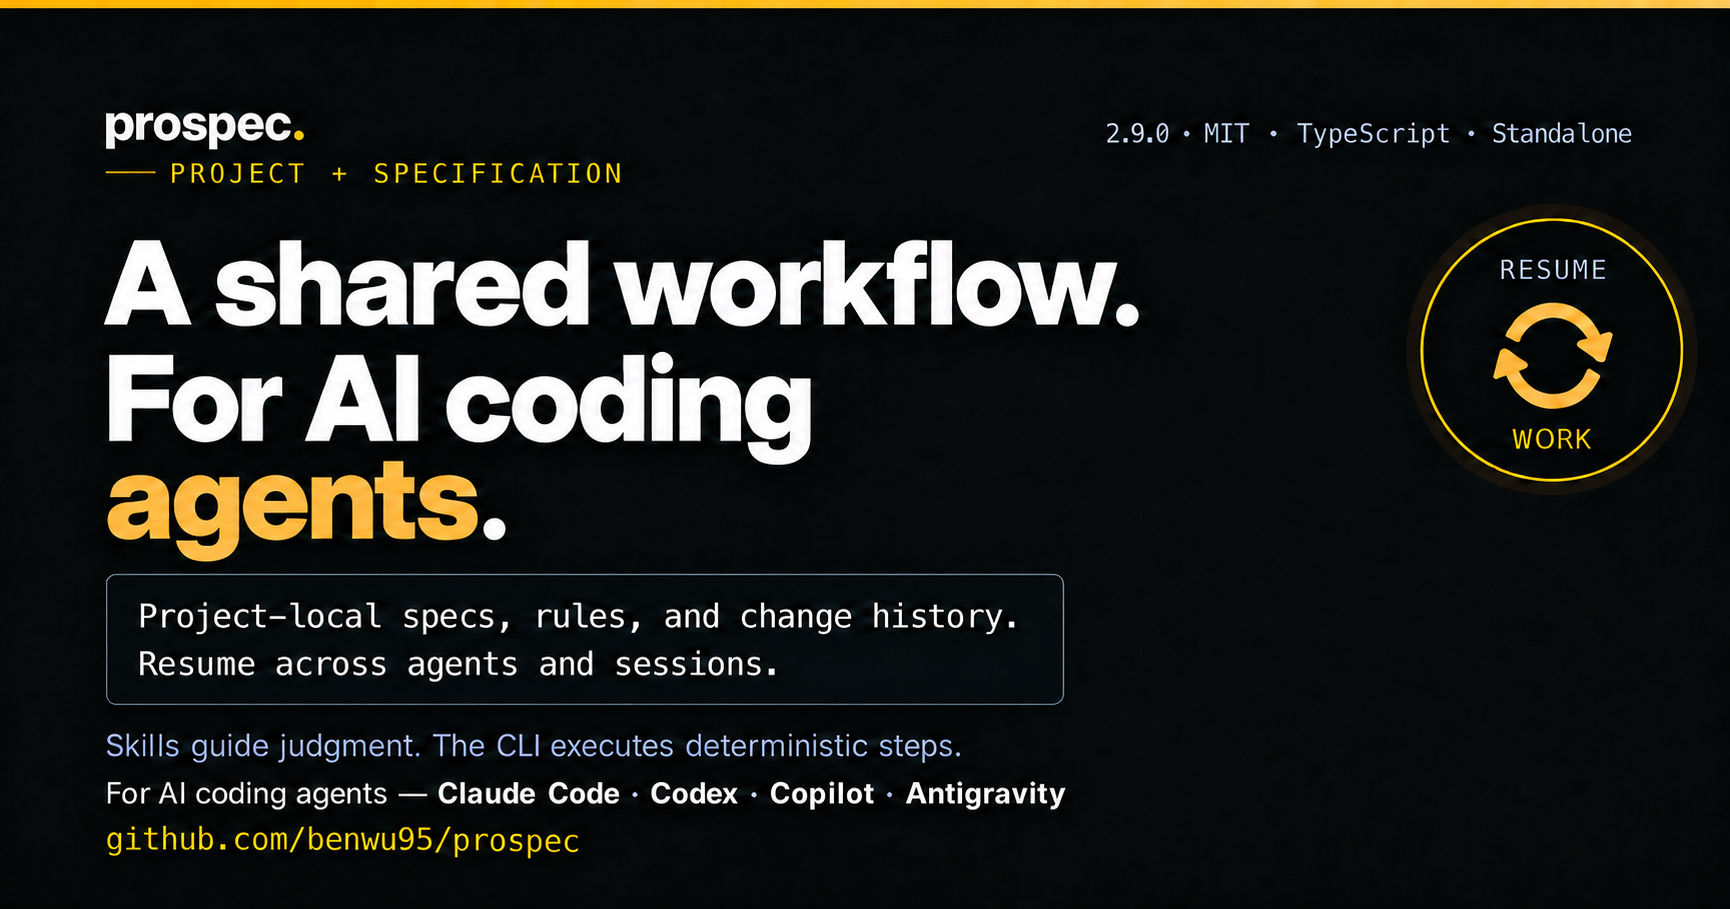
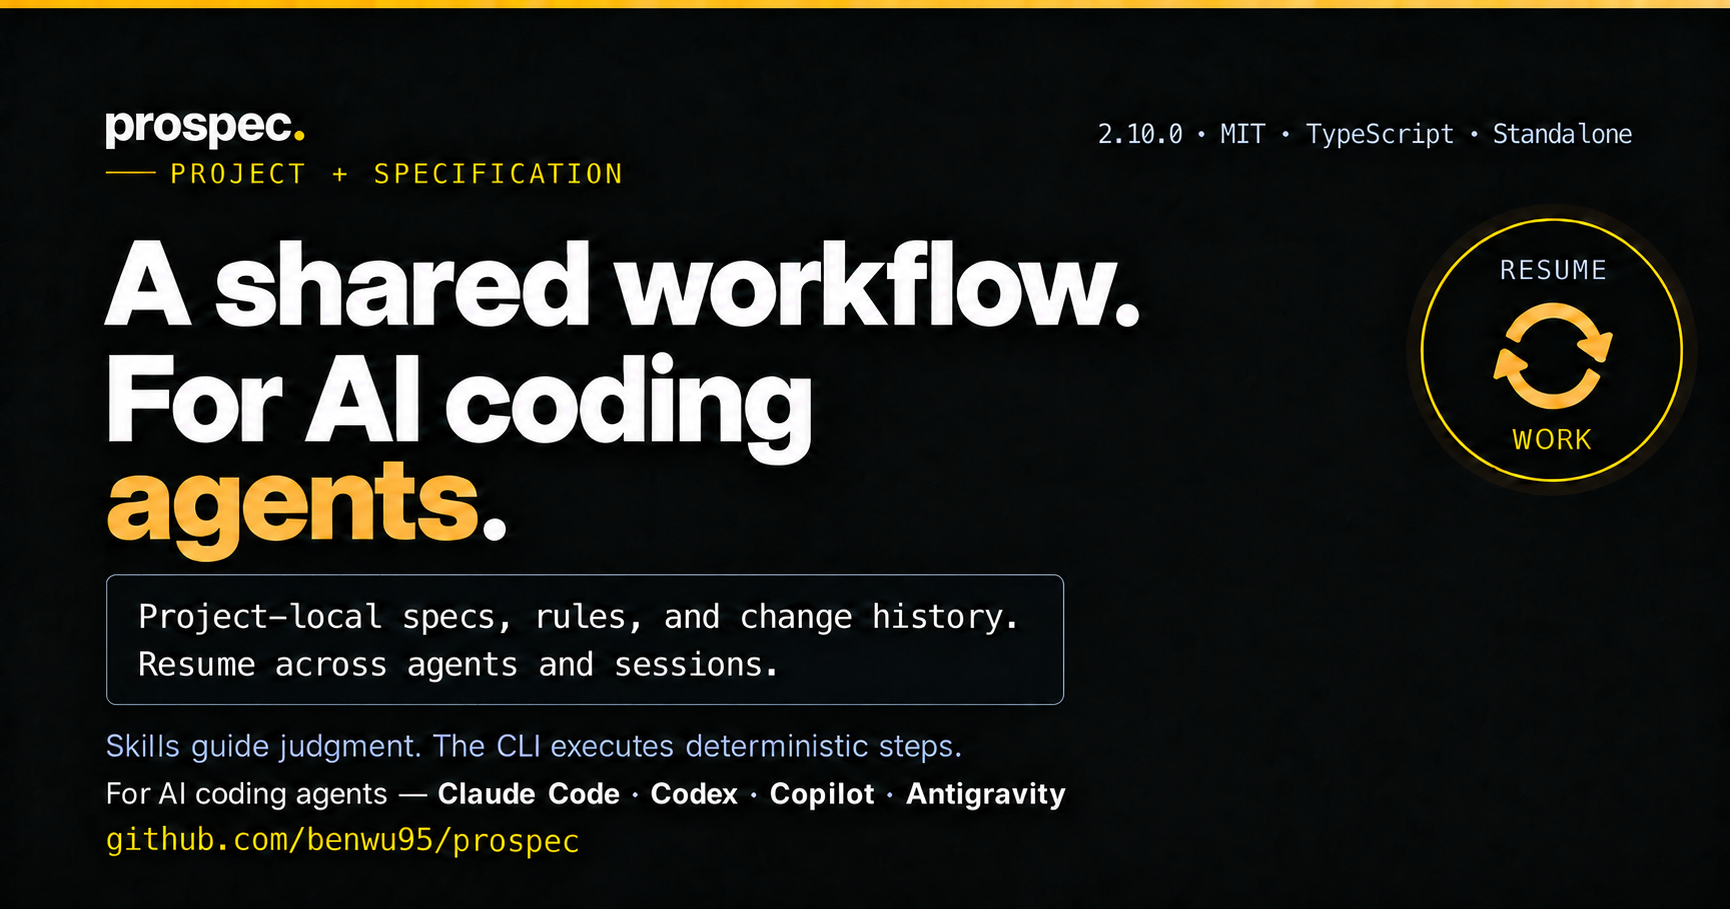
chore: bump version to 2.10.0

diff --git a/docs/index.html b/docs/index.html
@@ -14,12 +14,12 @@
 <meta property="og:image" content="https://benwu95.github.io/prospec/og.png">
 <meta property="og:image:width" content="1730">
 <meta property="og:image:height" content="909">
-<meta property="og:image:alt" content="Prospec 2.9.0 — a shared, resumable workflow for AI coding agents. Project-local specs, rules, and change history. Skills guide judgment; the CLI executes deterministic steps.">
+<meta property="og:image:alt" content="Prospec 2.10.0 — a shared, resumable workflow for AI coding agents. Project-local specs, rules, and change history. Skills guide judgment; the CLI executes deterministic steps.">
 <meta name="twitter:card" content="summary_large_image">
 <meta name="twitter:title" content="Prospec — a shared workflow for AI coding agents">
 <meta name="twitter:description" content="Project-local specs, rules, and change history keep work resumable across agents and sessions. Skills guide judgment; the CLI executes deterministic steps.">
 <meta name="twitter:image" content="https://benwu95.github.io/prospec/og.png">
-<meta name="twitter:image:alt" content="Prospec 2.9.0 — a shared, resumable workflow for AI coding agents. Project-local specs, rules, and change history. Skills guide judgment; the CLI executes deterministic steps.">
+<meta name="twitter:image:alt" content="Prospec 2.10.0 — a shared, resumable workflow for AI coding agents. Project-local specs, rules, and change history. Skills guide judgment; the CLI executes deterministic steps.">
 <script>
   (function(){
     var h = document.documentElement;
@@ -46,8 +46,8 @@
   "applicationCategory":"DeveloperApplication",
   "operatingSystem":"macOS, Linux, Windows",
   "softwareRequirements":"Standalone binaries require no Node.js. Node.js >= 22.13 is required only for npx, devDependency, or source-development paths.",
-  "softwareVersion":"2.9.0",
-  "dateModified":"2026-10-24",
+  "softwareVersion":"2.10.0",
+  "dateModified":"2026-10-27",
   "license":"https://opensource.org/licenses/MIT",
   "url":"https://benwu95.github.io/prospec/",
   "codeRepository":"https://github.com/benwu95/prospec",
@@ -104,7 +104,7 @@
 <!-- ===================== NAV ===================== -->
 <header class="nav">
   <div class="wrap nav__in">
-    <a class="brand" href="#top" aria-label="Prospec home" data-i18n-aria-label="nav.aria.brandHome">prospec<span class="dot" aria-hidden="true">.</span><span class="ver">2.9.0</span></a>
+    <a class="brand" href="#top" aria-label="Prospec home" data-i18n-aria-label="nav.aria.brandHome">prospec<span class="dot" aria-hidden="true">.</span><span class="ver">2.10.0</span></a>
     <nav class="nav__links" aria-label="Primary" data-i18n-aria-label="nav.aria.primary">
       <a href="#v2" data-i18n="nav.v2">Workflow</a>
       <a href="#how" data-i18n="nav.how">How it works</a>

diff --git a/tests/contract/skill-format.test.ts b/tests/contract/skill-format.test.ts
@@ -2728,8 +2728,8 @@ describe('Skill Format Contract', () => {
       const workflow = htmlSectionById(website, 'v2');
       expect(workflow).toContain('prospec status');
       expect(workflow).toContain('docs/guides/upgrading.md');
-      expect(website).toContain('<span class="ver">2.9.0</span>');
-      expect(website).toContain('"softwareVersion":"2.9.0"');
+      expect(website).toContain('<span class="ver">2.10.0</span>');
+      expect(website).toContain('"softwareVersion":"2.10.0"');
       for (const page of [website, zhOverlay]) {
         expect(page).not.toContain('1.3 → 2.0');
         expect(page).not.toContain("What's new in 2.0");
@@ -2742,7 +2742,7 @@ describe('Skill Format Contract', () => {
       const twitterAlt = website.match(/<meta name="twitter:image:alt" content="([^"]+)">/)?.[1];
       expect(ogAlt).toBeDefined();
       expect(twitterAlt).toBe(ogAlt);
-      expect(ogAlt).toContain('2.9.0');
+      expect(ogAlt).toContain('2.10.0');
       expect(ogAlt).toContain('shared');
       expect(ogAlt).not.toContain('audits itself');
     });

diff --git a/tests/unit/types/version.test.ts b/tests/unit/types/version.test.ts
@@ -30,10 +30,10 @@ describe('PROSPEC_VERSION', () => {
 });
 
 describe('MINIMUM_CLI_VERSION', () => {
-  it('requires the CLI version that ships configurable test timeouts and symlink evidence', async () => {
+  it('requires the CLI version that ships source-digest freshness and Knowledge sync before review', async () => {
     vi.resetModules();
     const { MINIMUM_CLI_VERSION } = await import('../../../src/types/version.js');
-    expect(MINIMUM_CLI_VERSION).toBe('2.9.0');
+    expect(MINIMUM_CLI_VERSION).toBe('2.10.0');
   });
 
   it('is a plain three-part semver literal (the probe floor skills render)', async () => {

diff --git a/src/types/version.ts b/src/types/version.ts
@@ -23,8 +23,8 @@ export const PROSPEC_VERSION: string = process.env.PROSPEC_VERSION || pkgVersion
 /**
  * The oldest CLI supporting the deployed skills' command and evidence contracts.
  * Injected into every startup probe as `{{minimum_cli_version}}`.
- * Configurable test timeouts and in-repo directory-symlink evidence need 2.9.0.
+ * Source-digest freshness and Knowledge sync before review need 2.10.0.
  * Raise this floor when shipped skills require a newer contract,
  * independently of package releases.
  */
-export const MINIMUM_CLI_VERSION = '2.9.0';
+export const MINIMUM_CLI_VERSION = '2.10.0';

diff --git a/prospec/ai-knowledge/modules/types/README.md b/prospec/ai-knowledge/modules/types/README.md
@@ -26,7 +26,7 @@
 | `cli-help.ts` | `HELP_ENRICHED_COMMANDS` + `COMMAND_HELP_SPECS` (when-to-use / example (plus optional `additionalExamples`) / returns per agent-called command, including warning-only refusal results; a `Record`, so a missing spec is a type error), `renderCommandHelp`, `EscapingDisclosure` (`markdown-table` vs `yaml-scalar`) and `ESCAPING_RULE_TEXT` — the one sentence both the help and the success notice print |
 | `station.ts` | Station I/O schemas — `ReviewFindingSchema` (+ its `repro`/`evidence` half), `JudgmentDimensionInputSchema` (each entry declares `graded_by`, an optional `executor` self-report, plus `items[]`, `scenario_findings[]`, and `context_id` for delta-spec compliance; `baseline_revision` is a quality-log projection, not judgment input), the planning-verifier contract (`PLANNING_VERDICTS`, `PLAN_VERIFIER_DIMENSIONS` / `TASKS_VERIFIER_DIMENSIONS`, strict `PlanVerifierReportSchema` / `TasksVerifierReportSchema`, `VERIFIER_REPORT_SCHEMAS` keyed by station skill, `planningVerdictToGateResult` FLAWS→FAIL), the plan candidate contracts (closed `CandidatePayloadSchema` / `DecisionPayloadSchema`, whose `graded_by` is `DECISION_GRADED_BY` — `human` | `in-session`, not the judgment-dimension vocabulary), `LessonInputSchema`, review status groups (`REVIEW_*_STATUSES`, `normalizeReviewStatus`/`hasReviewStatus`), the fresh-test gate contracts (`TestEvidenceFacts` / `TestEvidenceDecision` / `CurrentTestEvidenceAssessment` / `TestGateOutcome`, `TEST_GATE_PRODUCER` = `prospec-test-gate`, `TEST_GATE_NOT_ADJUDICATED`, `testGateRemediation`), and the `prospec learn yield` contracts (`LensYieldThresholdsSchema` defaults 5/3/0.1, `LensYieldStatSchema`, `LensYieldReportSchema`, `LENS_RETIREMENT_ACTIONS`); `RELAYED_FIELD_MAX_CHARS` and the dimension/kind registries are in the sub-module |
 
-Also: `auto-draft.ts` (drift-drafting options/result, incl. the `created | skipped | failed` per-group outcome), `conventions.ts`, `feature-map.ts`, `mcp.ts`, `measurement.ts`, `module-readme-format.ts`, `spec.ts`, `status.ts` (`ChangeRoute` with its stable `code`, its canonical `nextSkill` identity beside the optional fallback `nextSkillPath`, `WORKFLOW_REASON_CODES` / `WorkflowReason` / `formatWorkflowReason` shared by the router and the archive gate, `HUMAN_HALT_CODES` / `isHumanHaltCode` — the only codes a non-archived `next: null` route carries — and `PLAN_SIGNOFF_REMEDIES`, the one remedy text the router and `--signoff` share, the `pauseAtPlan` / `planSignedOff` route facts, `StatusReport`, and `DriftSignal` — the two-state drift verdict `prospec status` reports), `version.ts` (`PROSPEC_VERSION` + `MINIMUM_CLI_VERSION`; deployed Skills require CLI 2.9.0 for configurable test timeouts and directory-symlink evidence).
+Also: `auto-draft.ts` (drift-drafting options/result, incl. the `created | skipped | failed` per-group outcome), `conventions.ts`, `feature-map.ts`, `mcp.ts`, `measurement.ts`, `module-readme-format.ts`, `spec.ts`, `status.ts` (`ChangeRoute` with its stable `code`, its canonical `nextSkill` identity beside the optional fallback `nextSkillPath`, `WORKFLOW_REASON_CODES` / `WorkflowReason` / `formatWorkflowReason` shared by the router and the archive gate, `HUMAN_HALT_CODES` / `isHumanHaltCode` — the only codes a non-archived `next: null` route carries — and `PLAN_SIGNOFF_REMEDIES`, the one remedy text the router and `--signoff` share, the `pauseAtPlan` / `planSignedOff` route facts, `StatusReport`, and `DriftSignal` — the two-state drift verdict `prospec status` reports), `version.ts` (`PROSPEC_VERSION` + `MINIMUM_CLI_VERSION`; deployed Skills require CLI 2.10.0 for source-digest freshness and Knowledge sync before review).
 
 ## Public API
 
@@ -79,7 +79,7 @@ Also: `auto-draft.ts` (drift-drafting options/result, incl. the `created | skipp
 - `.optional()` → `T | undefined`, `.default()` → `T`; a new required field breaks existing `.prospec.yaml`. A budget threshold needs BOTH `TokenBudgetSchema` and `DEFAULT_KNOWLEDGE_TOKEN_BUDGET` (less `SHIPPED_BUDGET_FIELDS`, which ship with the version) — the resolver reads the default's keys, so a schema-only field parses then is ignored (a key-set test pins it).
 - `ChangeMetadataSchema` is loose at every level (reads never strip unmodeled keys), but `z.infer` of it gains an index signature that kills tsc's excess-property check — build against strict `NewChangeMetadata`, `satisfies` each spread body.
 - `ReviewFindingSchema.id` is optional but never decorative: omitting it buys location+lens keying against pre-round rows only, so the schema's doc comment is where that cost is stated for the caller. A finding carrying `repro`/`evidence` therefore REQUIRES one — the artifact anchors evidence by id. `evidence` is the one deliberately uncapped field (it never travels back); every relayed field is capped AND single-line because each is rendered as one table cell OR one raw line — `id` and `lens` are in the set for the raw-line half, and leaving them out made both forgeable.
-- `MINIMUM_CLI_VERSION` (`version.ts`) is the skills' probe floor, independent of the package version. Its 2.9.0 floor covers configurable test timeouts and directory-symlink evidence; raise it when shipped skills require newer CLI commands or evidence contracts.
+- `MINIMUM_CLI_VERSION` (`version.ts`) is the skills' probe floor, independent of the package version. Its 2.10.0 floor covers source-digest freshness and Knowledge sync before review; raise it when shipped skills require newer CLI commands or evidence contracts.
 - `feature-map.ts` is shape-only — slug/module-map checks live in the lib loader, not here.
 - `test_provenance` is deliberately outside the metadata required-field floor.
 

diff --git a/docs/guides/upgrading.md b/docs/guides/upgrading.md
@@ -39,11 +39,15 @@ prospec-upgrade                 # Step 2: AI agent migrates drifted doc formats,
 > - **Legacy File Cleanup**: If upgrading from an older pre-1.0 Prospec layout, remove the now-unused legacy files and directories after re-syncing: `GEMINI.md`, `.gemini/skills/`, `.codex/skills/`, `.github/copilot-instructions.md`, and `.github/instructions/`.
 > - **Configuration Version & Triggers**: `.prospec.yaml` `version` tracks the prospec version the project last upgraded to. If you ever need to localize triggers after adding a skill, simply run `prospec agent sync` — it explicitly reports missing `skill_triggers` entries so you fill only the gaps.
 
-## Upgrade to the next release (unreleased)
+## Upgrade to 2.10.0
+
+Update the binary before running `prospec upgrade`: the synced Skills require CLI 2.10.0 or later for source-digest freshness and Knowledge sync before review.
 
 **Breaking:** Knowledge freshness is judged by a digest of each module's source content instead of commit dates, so a same-day follow-up commit or a merged older branch no longer reads fresh. After upgrading, every module whose `module-map.yaml` entry has no `source_digest` reads stale: `knowledge-health` warns, and a change touching that module is held at the Knowledge sync gate until it is re-stamped.
 
 For each module, confirm its README still matches the source, then run `prospec knowledge verify <module>`; it records `source_digest` beside `last_verified`. Re-stamp only after that review — the stamp asserts the knowledge was checked. A shallow clone is now judged by digest instead of being skipped, with the report's commit-time fields left null.
+
+Complete Knowledge updates before the final test record and review baseline. The standard route is now implement → knowledge-update → review → verify → archive; proven backfill prepares Knowledge after promote and before verify.
 
 Run `prospec status` and `prospec check --strict` after upgrading.
 

diff --git a/prospec/ai-knowledge/modules/tests/README.md b/prospec/ai-knowledge/modules/tests/README.md
@@ -46,7 +46,7 @@ Lens changes require independent eight-lens expectations, alias/custom and thres
 
 ## Ripple Effects
 
-- Template/skill/service/CLI changes ripple to contract + E2E expectations; public README, `docs/` page or website claims ripple to the section-scoped document contracts; a new station command needs a formatter unit test AND an E2E case. Release bumps update website/social-preview assertions in `skill-format.test.ts`; a CLI floor bump updates `version.test.ts` (2.9.0: configurable test timeout and directory-symlink evidence).
+- Template/skill/service/CLI changes ripple to contract + E2E expectations; public README, `docs/` page or website claims ripple to the section-scoped document contracts; a new station command needs a formatter unit test AND an E2E case. Release bumps update website/social-preview assertions in `skill-format.test.ts`; a CLI floor bump updates `version.test.ts` (2.10.0: source-digest freshness and Knowledge sync before review).
 
 ## Pitfalls
 
@@ -81,7 +81,7 @@ Lens changes require independent eight-lens expectations, alias/custom and thres
 - [Contract Guards](./contract-guards.md) — the `tests/contract/` pins and the assertion discipline that keeps them falsifiable
 - [Workflow Evaluator](./workflow-evaluator.md) — the instruction-grading harness's suites, and why they are never model evidence
 
-The release contract pins the 2.9.0 website and social-preview version; the version unit test pins the matching minimum CLI capability and evidence contract.
+The release contract pins the 2.10.0 website and social-preview version; the version unit test pins the matching minimum CLI capability and evidence contract.
 
 <!-- prospec:auto-end -->
 

diff --git a/AGENTS.md b/AGENTS.md
@@ -161,7 +161,7 @@ Feedback Promotion Pipeline - Collect session corrections, repeated verify FAILs
 
 At the start of a session, run `prospec status` — it deterministically reports each in-progress
 change's name, current node, suggested next step, and blocking gates (the executable copy of
-`prospec/ai-knowledge/_status-lifecycle.md`). The prospec CLI (version ≥ 2.9.0)
+`prospec/ai-knowledge/_status-lifecycle.md`). The prospec CLI (version ≥ 2.10.0)
 is a required file for the prospec skills: when it is missing or too old, STOP and install/upgrade
 the standalone executable before running any skill — never substitute manual steps.
 

diff --git a/CLAUDE.md b/CLAUDE.md
@@ -41,7 +41,7 @@ Each Skill's description and trigger words are surfaced automatically from its `
 
 At the start of a session, run `prospec status` — it deterministically reports each in-progress
 change's name, current node, suggested next step, and blocking gates (the executable copy of
-`prospec/ai-knowledge/_status-lifecycle.md`). The prospec CLI (version ≥ 2.9.0)
+`prospec/ai-knowledge/_status-lifecycle.md`). The prospec CLI (version ≥ 2.10.0)
 is a required file for the prospec skills: when it is missing or too old, STOP and install/upgrade
 the standalone executable before running any skill — never substitute manual steps.
 

diff --git a/.agents/skills/prospec-archive/SKILL.md b/.agents/skills/prospec-archive/SKILL.md
@@ -26,7 +26,7 @@ Write each generated document in the language the Constitution's Language Policy
    executable — the one-click installer script from the project README (macOS/Linux `install.sh`,
    Windows `install.ps1`) or a release binary from GitHub Releases; prospec is NOT published to
    npm. Then re-run this skill.
-3. **Version older than 2.9.0** → STOP. Report the installed vs required version
+3. **Version older than 2.10.0** → STOP. Report the installed vs required version
    and ask the user to upgrade, then re-run this skill.
 
 Hand-executing a CLI-owned mutation is NEVER the fallback — that re-introduces the

diff --git a/.agents/skills/prospec-backfill-spec/SKILL.md b/.agents/skills/prospec-backfill-spec/SKILL.md
@@ -27,7 +27,7 @@ Write each generated document in the language the Constitution's Language Policy
    executable — the one-click installer script from the project README (macOS/Linux `install.sh`,
    Windows `install.ps1`) or a release binary from GitHub Releases; prospec is NOT published to
    npm. Then re-run this skill.
-3. **Version older than 2.9.0** → STOP. Report the installed vs required version
+3. **Version older than 2.10.0** → STOP. Report the installed vs required version
    and ask the user to upgrade, then re-run this skill.
 
 Hand-executing a CLI-owned mutation is NEVER the fallback — that re-introduces the
